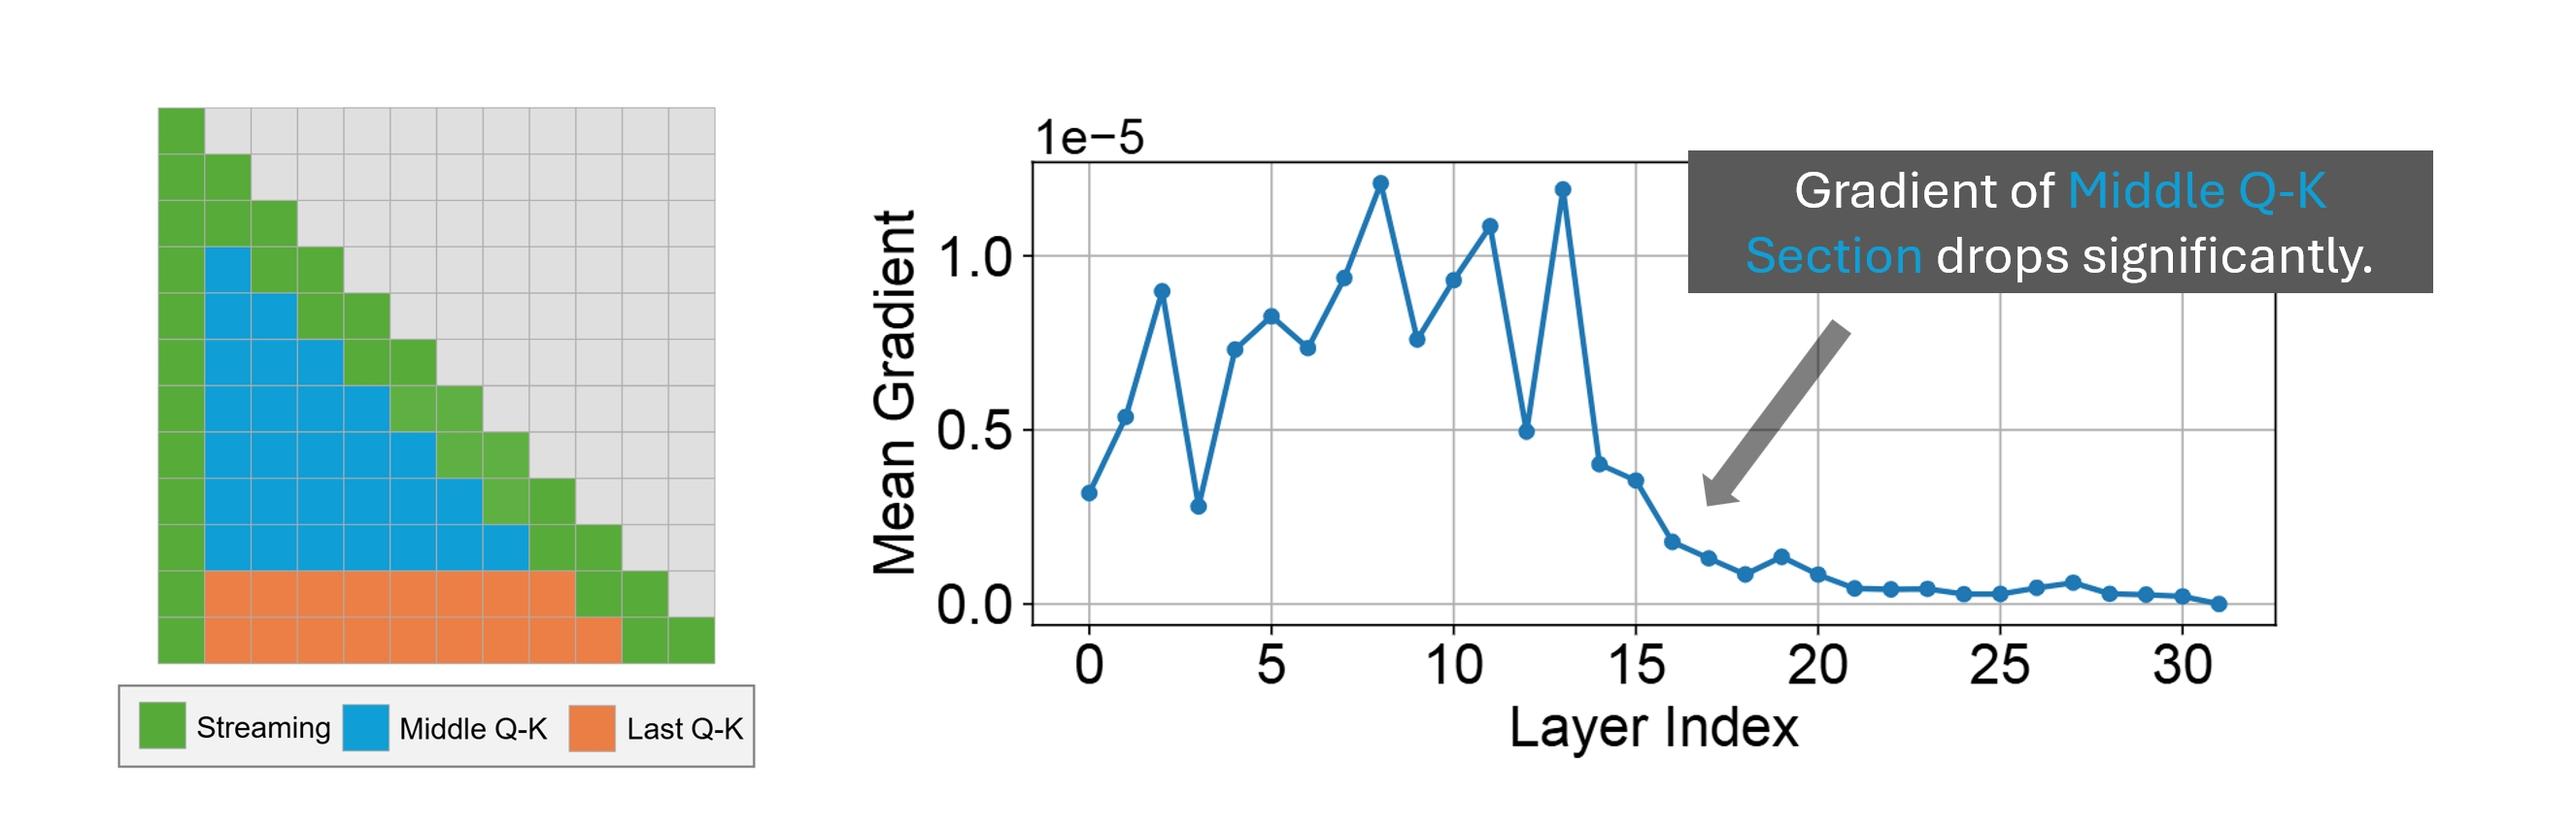
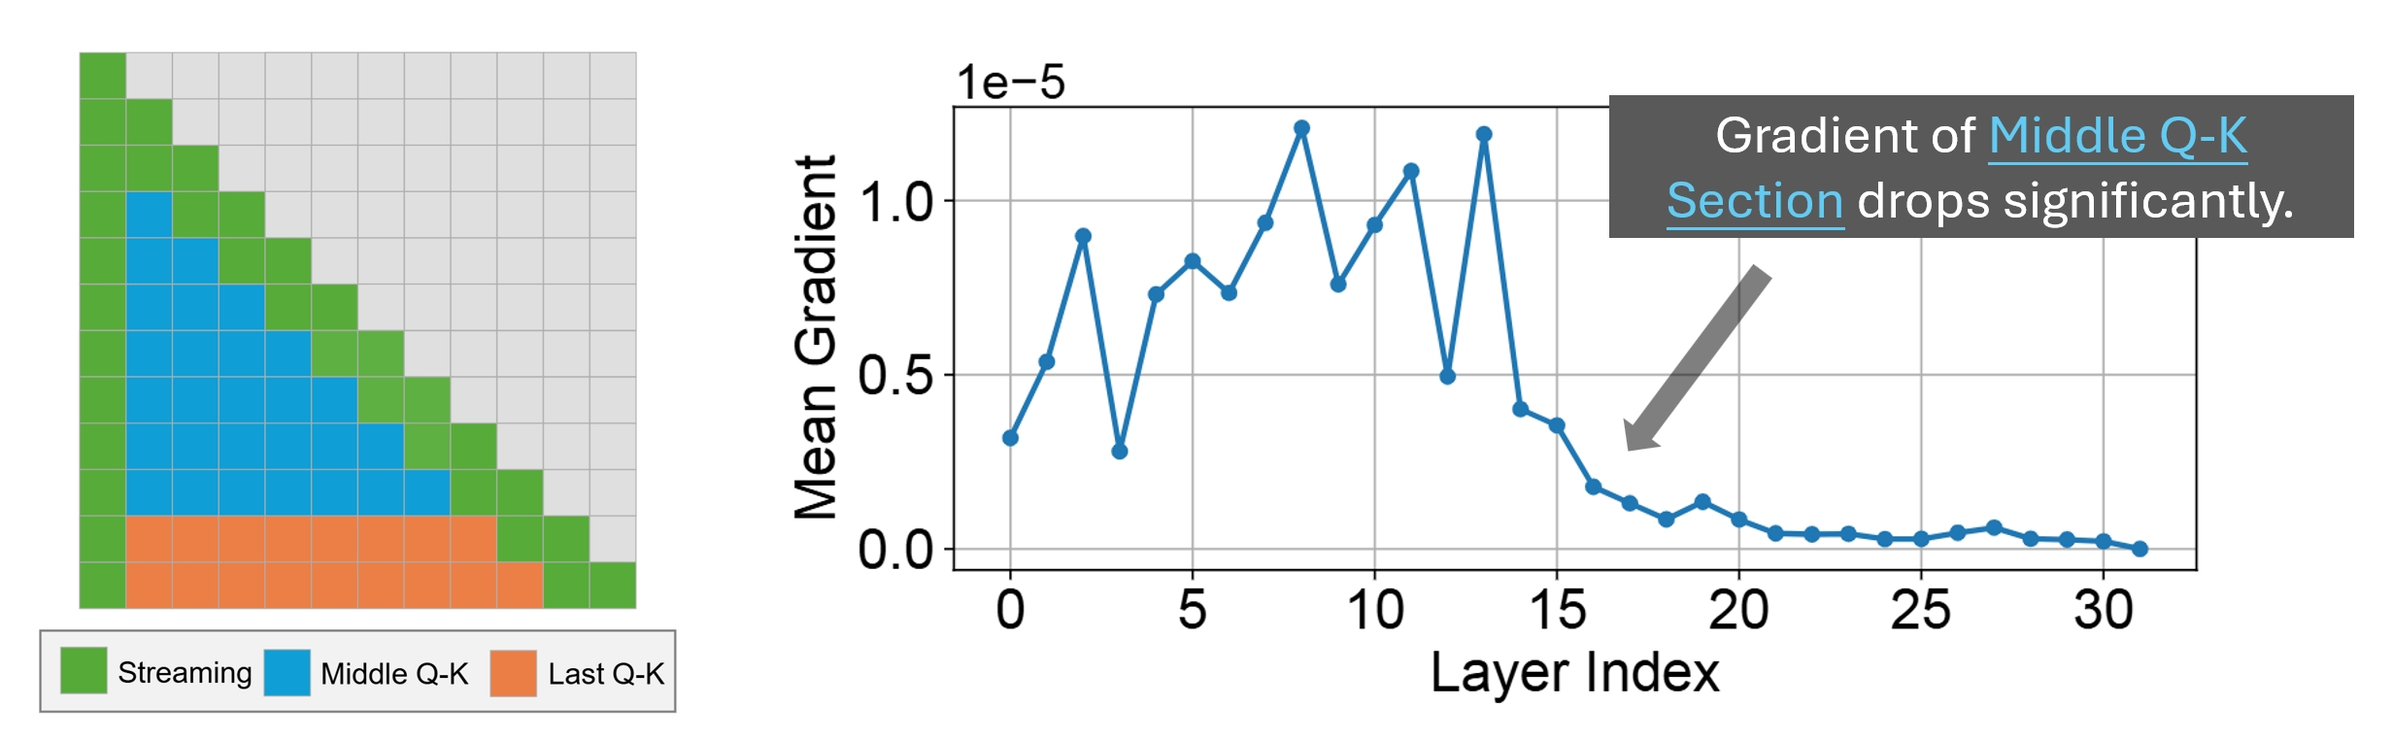
fix

Changed region(s): [[0.3086, 0.0906, 0.9874, 0.9357], [0.0, 0.0604, 0.3086, 0.9659]]

diff --git a/tri_mix/README.md b/tri_mix/README.md
@@ -106,5 +106,3 @@ TTFT in seconds on A100 80GB:
 | TriangleMix        | **3.6 (-12%)**  | **5.9 (-19%)**  | 8.6 (-23%)  | 11.7 (-26%) | 15.2 (-29%) | 19.1 (-31%) | 23.4 (-32%) |
 | Ours + MInference  | 4.2 (+2%)   | 6.0 (-18%)  | **7.7 (-31%)**  | **9.5 (-40%)**  | **10.9 (-49%)** | **12.7 (-54%)** | **14.5 (-58%)** |
 
-
-## More Findings
